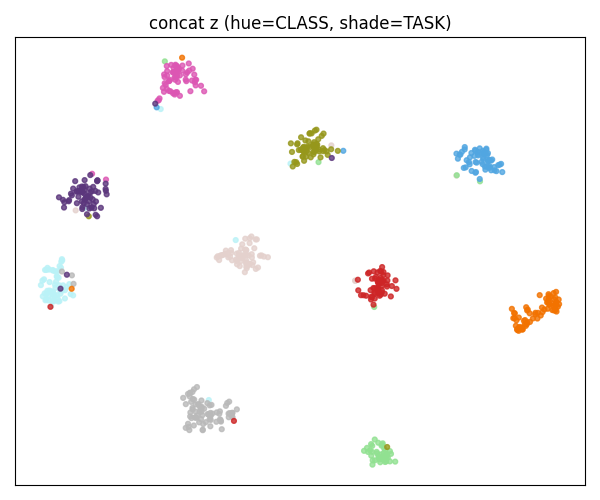
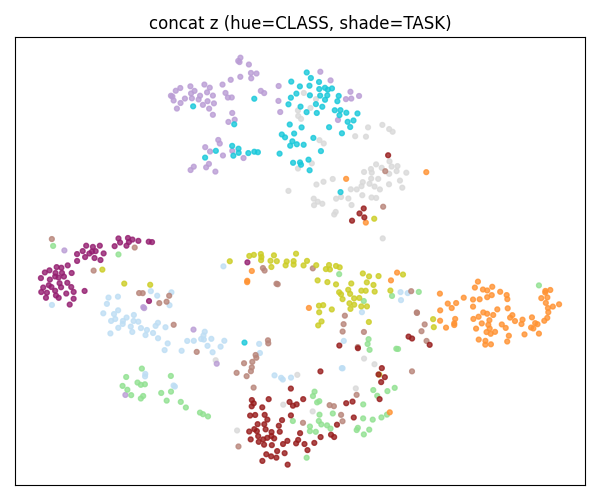
manifold canges

diff --git a/train_ot_manifold_buffer.py b/train_ot_manifold_buffer.py
@@ -1,0 +1,188 @@
+# train_mean_teacher_anchor.py – MNIST / CIFAR10 CL with
+#   ↳ EMA teacher        (no slow deepcopy)
+#   ↳ per-class OT head
+#   ↳ iCaRL herding      (balanced exemplars)
+#   ↳ Laplacian anchoring on teacher prototypes during replay
+
+import random, torch, torch.nn as nn, torch.nn.functional as F
+import numpy as np
+from torch.utils.data import DataLoader, Dataset
+from torchvision.datasets import MNIST, CIFAR10
+from torchvision.transforms import Compose, ToTensor, Grayscale
+from torchvision.transforms import functional as TF
+
+# ─────────────── hyper-parameters ───────────────
+T            = 5
+BATCH        = 128
+REPLAY_MB    = 128
+REPLAY_CAP   = 4096            # 20 exemplars × 10 classes
+D_CLS, D_TSK = 128, 10
+LR           = 1e-3
+EMA_ALPHA    = 0.99
+LAM_OT       = 2.0
+LAM_M        = 5e-3             # Laplacian anchor weight
+device       = torch.device('cuda' if torch.cuda.is_available() else 'cpu')
+print(device)
+isMNIST, PERMUTED, ROT = True, False, True
+# ────────────────────────────────────────────────
+
+# ---------------- data loaders (unchanged) ----------------
+class PMNIST(Dataset):
+    def __init__(self, base, perm): self.base, self.perm = base, perm
+    def __getitem__(s, i): x,y=s.base[i];return x.view(-1)[s.perm],y
+    def __len__(s): return len(s.base)
+class SplitMNIST(Dataset):
+    def __init__(s, base, cl):
+        s.data=[(x.view(-1),y) for x,y in base if y in cl]
+    def __getitem__(s,i): return s.data[i]
+    def __len__(s): return len(s.data)
+
+class RotatedMNIST(Dataset):
+    def __init__(self, base, angle_deg):
+        self.base = base
+        self.angle = angle_deg
+    def __getitem__(self, i):
+        x, y = self.base[i]
+        x = TF.rotate(x, self.angle, interpolation=TF.InterpolationMode.BILINEAR)
+        return x.view(-1), y
+    def __len__(self): return len(self.base)
+    
+def get_tasks():
+    base=MNIST('./data',train=True,download=True,transform=ToTensor())
+    if ROT:
+        perms=np.random.uniform(0, 2 * np.pi, size=5)
+        return [DataLoader(RotatedMNIST(base,p),batch_size=BATCH,shuffle=True,
+                           drop_last=True) for p in perms]
+    elif PERMUTED:
+        perms=[torch.randperm(784) for _ in range(T)]
+        return [DataLoader(PMNIST(base,p),batch_size=BATCH,shuffle=True,
+                           drop_last=True) for p in perms]
+    else:
+        splits=[list(range(i,i+2)) for i in range(0,10,2)]
+        return [DataLoader(SplitMNIST(base,c),batch_size=BATCH,shuffle=True,
+                           drop_last=True) for c in splits]
+tasks=get_tasks()
+
+# # ---------------- herding replay buffer ----------------
+# class HerdBuf:
+#     def __init__(s, cap_pc, model): s.cap, s.m, s.mem=cap_pc,model,{c:[] for c in range(10)}
+#     def add(s,x,y):
+#         with torch.no_grad():
+#             z=s.m.backbone(x.to(device))[:,-D_TSK:]
+#             z=F.normalize(z,1).cpu()
+#         for xi,yi,zi in zip(x.cpu(),y.cpu(),z):
+#             buf=s.mem[int(yi)]
+#             if len(buf)<s.cap: buf.append((xi,yi,zi)); continue
+#             Z=torch.stack([z for _,_,z in buf]);mu=Z.mean(0)
+#             worst=(Z-mu).norm(2,1).argmax()
+#             if (zi-mu).norm()< (Z[worst]-mu).norm(): buf[worst]=(xi,yi,zi)
+#     def sample(s,m):
+#         xs,ys=[] ,[]
+#         take=max(1,m//10)
+#         for c,buf in s.mem.items():
+#             for xi,yi,_ in random.sample(buf,min(take,len(buf))):
+#                 xs.append(xi);ys.append(yi)
+#         return (torch.stack(xs).to(device),torch.tensor(ys,device=device)) if xs else (None,None)
+
+class ReplayBuf:
+    def __init__(self, cap):
+        self.x, self.y, self.cap = [], [], cap
+    def add(self, x, y):
+        for xi, yi in zip(x.cpu(), y.cpu()):
+            if len(self.x) < self.cap:
+                self.x.append(xi); self.y.append(int(yi))
+            else:
+                k = random.randrange(self.cap)
+                self.x[k] = xi; self.y[k] = int(yi)
+    def sample(self, m):
+        if not self.x: return None, None
+        idx = random.sample(range(len(self.x)), min(m, len(self.x)))
+        xs = torch.stack([self.x[i] for i in idx]).to(device)
+        ys = torch.tensor([self.y[i] for i in idx], device=device)
+        return xs, ys
+
+buf = ReplayBuf(REPLAY_CAP)
+
+# ---------------- mean-teacher helpers ----------------
+def ema(student,teacher,a=EMA_ALPHA):
+    for ps,pt in zip(student.parameters(),teacher.parameters()):
+        pt.data.mul_(a).add_(ps.data,alpha=1-a)
+
+# ---------------- Laplacian builder on teacher prototypes ------------
+def build_laplacian(P_anchor, sigma=0.5):
+    d2=torch.cdist(P_anchor,P_anchor,2).pow(2)
+    W=torch.exp(-d2/(2*sigma**2))
+    D=torch.diag(W.sum(1)); return D-W
+
+# ---------------- model components --------------------
+class OTHead(nn.Module):
+    def __init__(s,d,K):
+        super().__init__(); s.P=nn.Parameter(torch.randn(K,d)); nn.init.normal_(s.P)
+    def forward(s,z):
+        Pn=F.normalize(s.P,1);scr=z@Pn.T/0.5
+        Q=F.softmax(scr/0.1,1); ot=-(Q*F.log_softmax(scr,1)).sum(1).mean()
+        idx=Q.argmax(1);cent=s.P[idx]
+        return ot,cent
+class Net(nn.Module):
+    def __init__(s):
+        super().__init__()
+        inp=784
+        s.backbone=nn.Sequential(nn.Linear(inp,256),nn.ReLU(),nn.Linear(256,D_CLS+D_TSK))
+        s.head=OTHead(D_TSK,10)
+        s.fc=nn.Linear(D_CLS+D_TSK,10)
+    def forward(s,x,replay_z=None):
+        z=s.backbone(x)
+        zc=F.normalize(z[:,:D_CLS],1);zt=F.normalize(z[:,D_CLS:],1)
+        ot,cent=s.head(zt if replay_z is None else replay_z)
+        log=s.fc(torch.cat([zc,cent.detach()],1))
+        return log,ot
+# ------------------------------------------------------
+
+student=Net().to(device); teacher=Net().to(device)
+teacher.load_state_dict(student.state_dict())
+opt=torch.optim.Adam(student.parameters(),lr=LR)
+
+# placeholders for prototype anchors
+P_anchor=None; L_anchor=None
+
+for t,loader in enumerate(tasks):
+    print(f"\nTask {t}")
+    student.train()
+    for x,y in loader:
+        x,y=x.to(device),y.to(device)
+
+        # -------- current batch -----------
+        log,ot=student(x,None); loss=F.cross_entropy(log,y)+LAM_OT*ot
+
+        # -------- replay branch -----------
+        xr,yr=buf.sample(REPLAY_MB)
+        if xr is not None:
+            with torch.no_grad():
+                logT,_=teacher(xr,None)
+                pT=F.softmax(logT/0.5,1)
+            logS,ot_r=student(xr,None)
+            pS=F.softmax(logS/0.5,1)
+            wd=(pS.cumsum(1)-pT.cumsum(1)).abs().sum(1).mean()
+            loss+=F.cross_entropy(logS,yr)+LAM_OT*ot_r+wd
+            # ----- manifold anchor on TEACHER prototypes -----
+            if P_anchor is not None:
+                Delta=teacher.head.P-P_anchor
+                man=torch.trace(Delta.T@L_anchor@Delta)
+                loss+=LAM_M*man
+
+        opt.zero_grad();loss.backward();opt.step()
+        ema(student,teacher); buf.add(x.cpu(),y.cpu())
+
+    # ------ after task: snapshot teacher prototypes & Laplacian ------
+    with torch.no_grad():
+        P_anchor=teacher.head.P.detach().clone()
+        L_anchor=build_laplacian(P_anchor).to(device)
+
+    # ------ evaluation ----------
+    student.eval()
+    for s in range(t+1):
+        tot=ok=0
+        for xv,yv in tasks[s]:
+            xv,yv=xv.to(device),yv.to(device)
+            pred,_=student(xv,None); ok+=(pred.argmax(1)==yv).sum().item(); tot+=len(yv)
+        print(f"  Task {s} acc: {100*ok/tot:5.2f}%")

diff --git a/train_ot_prime.py b/train_ot_prime.py
@@ -10,7 +10,7 @@ import random, numpy as np
 T             = 5          # tasks / permutations
 BATCH         = 128
 REPLAY_MB     = 128 #512
-REPLAY_CAP    = 4096*32
+REPLAY_CAP    = 4096*2
 D_CLS, D_TSK  = 128, 10
 K             = T          # one prototype per task
 LR            = 1e-3
@@ -250,7 +250,7 @@ def accuracy(model, loader):
     return 100*correct/n
 
 # ---------------- training loop -------------------
-def train_task(model, loader, optim, epochs=1):
+def train_task(model, loader, optim, epochs=20):
     model.train()
     for _ in range(epochs):
         for x,y in loader:
